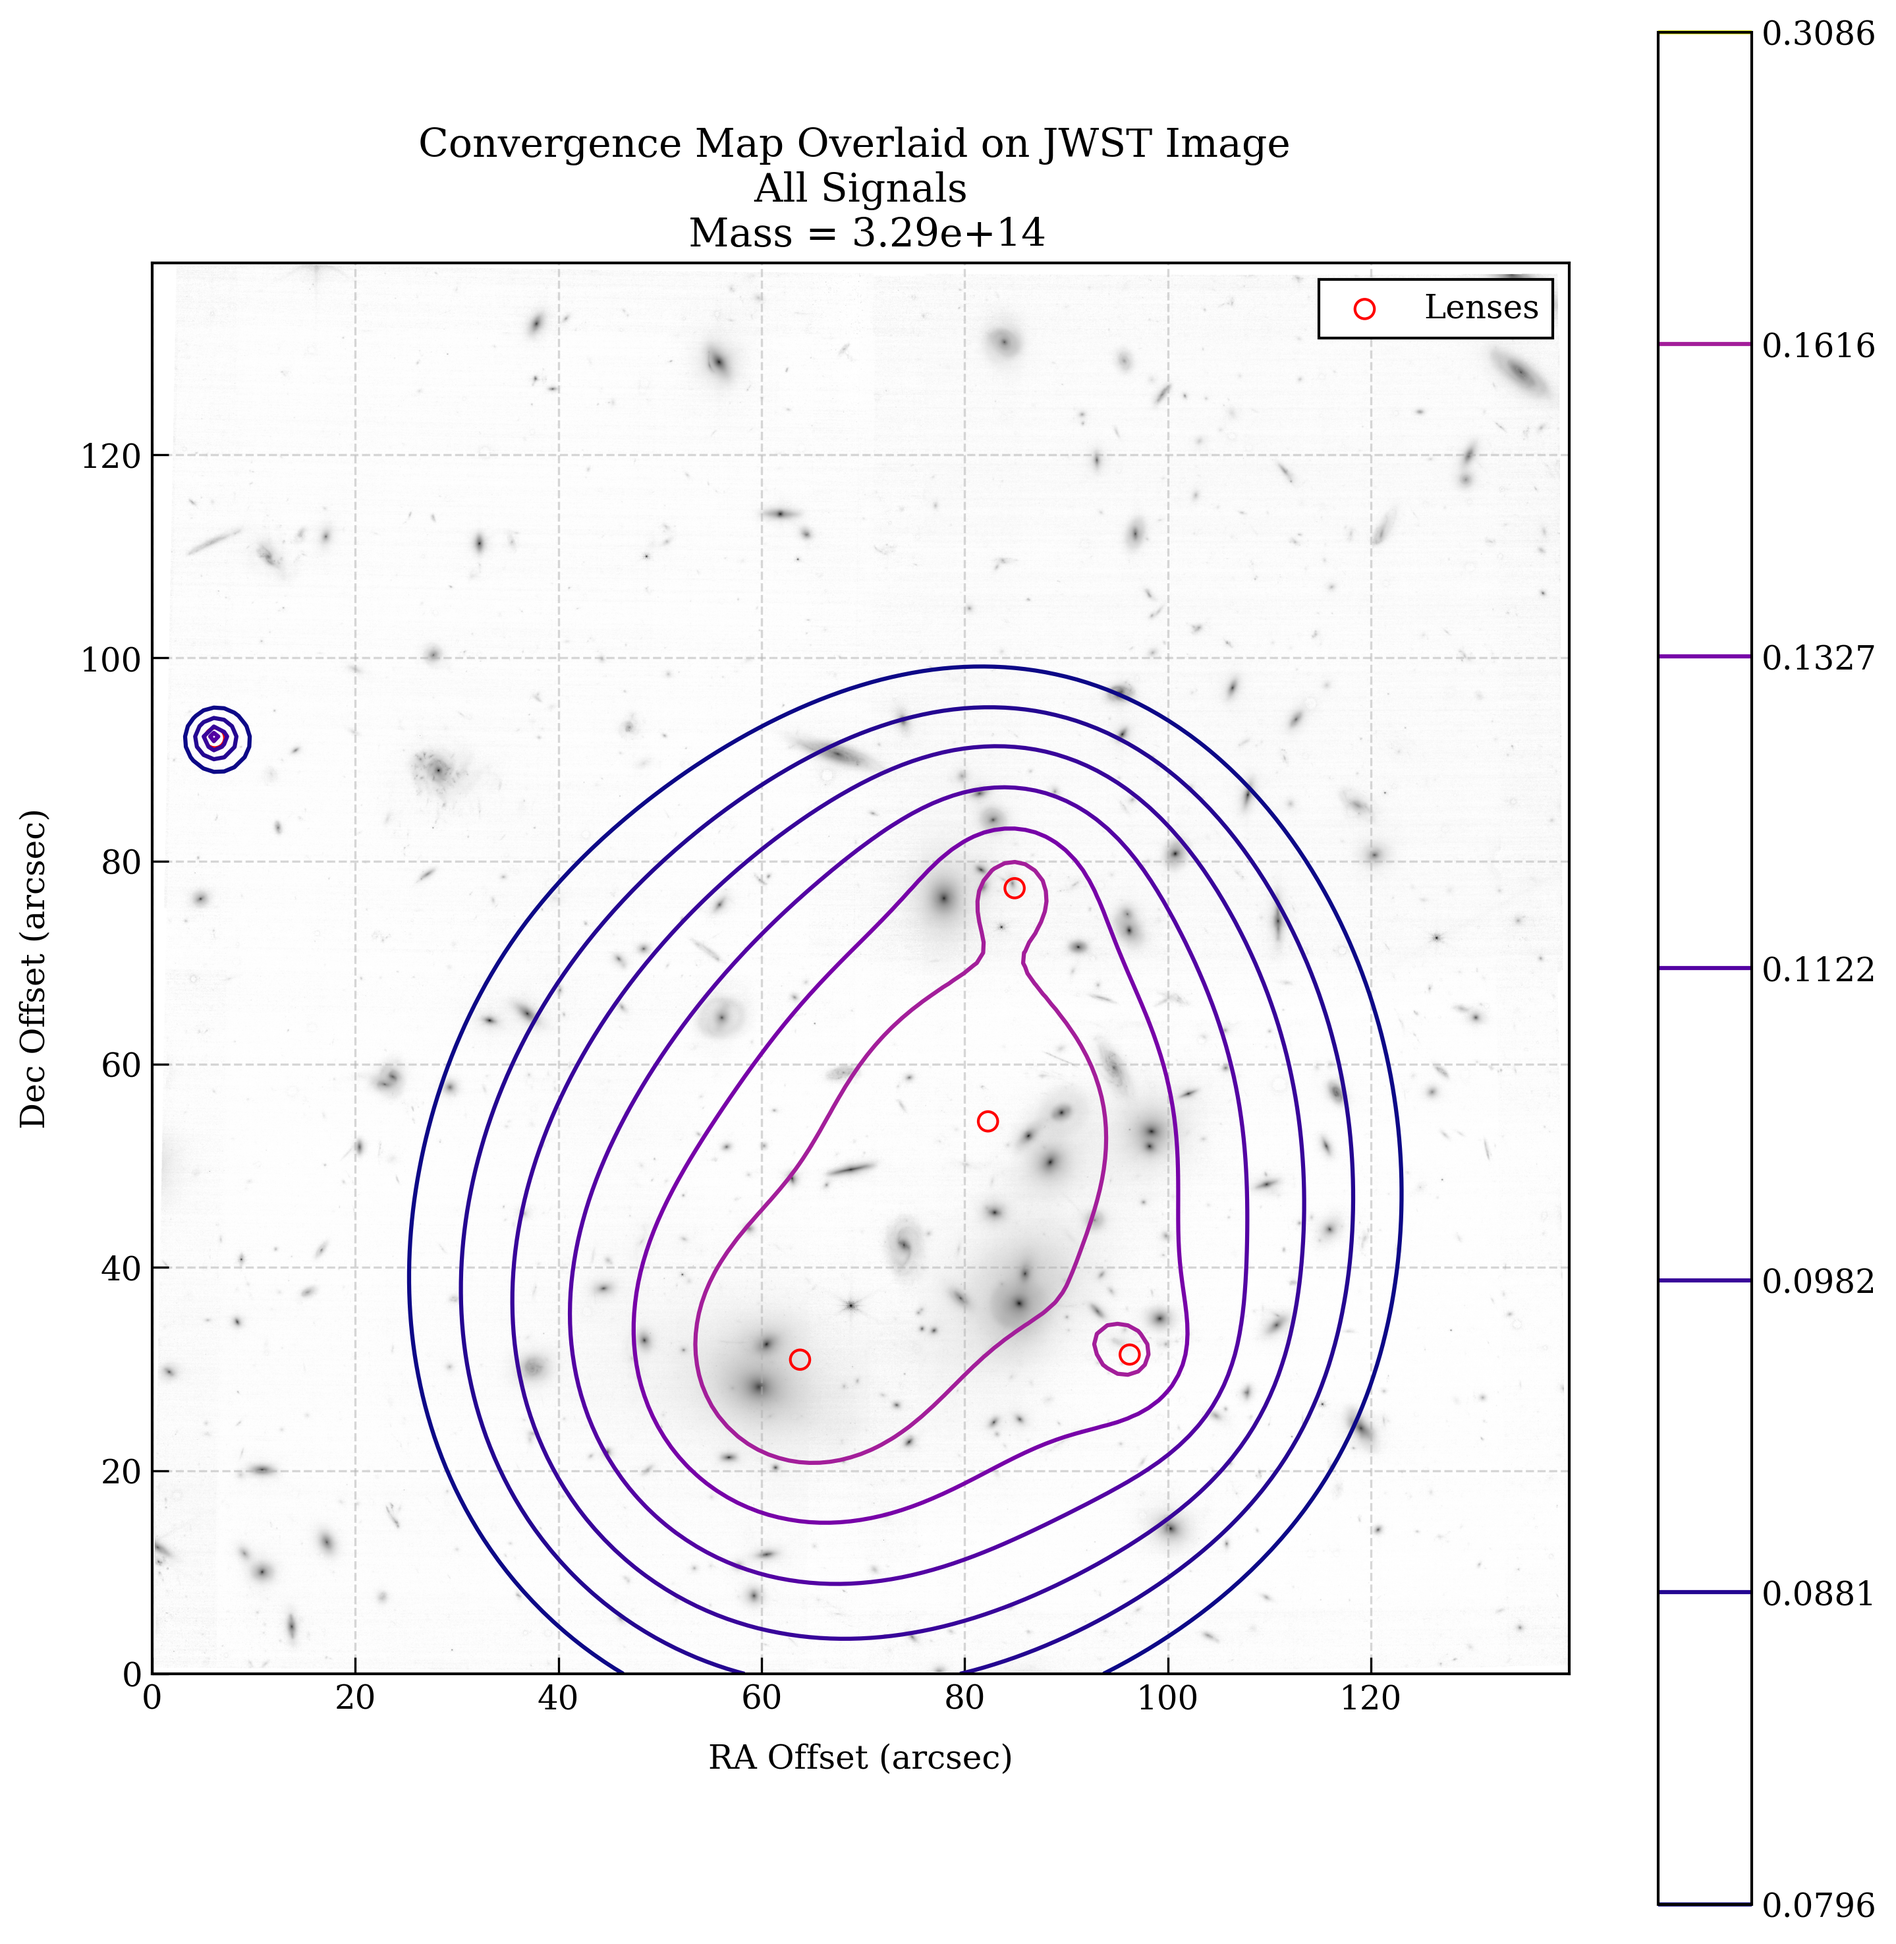
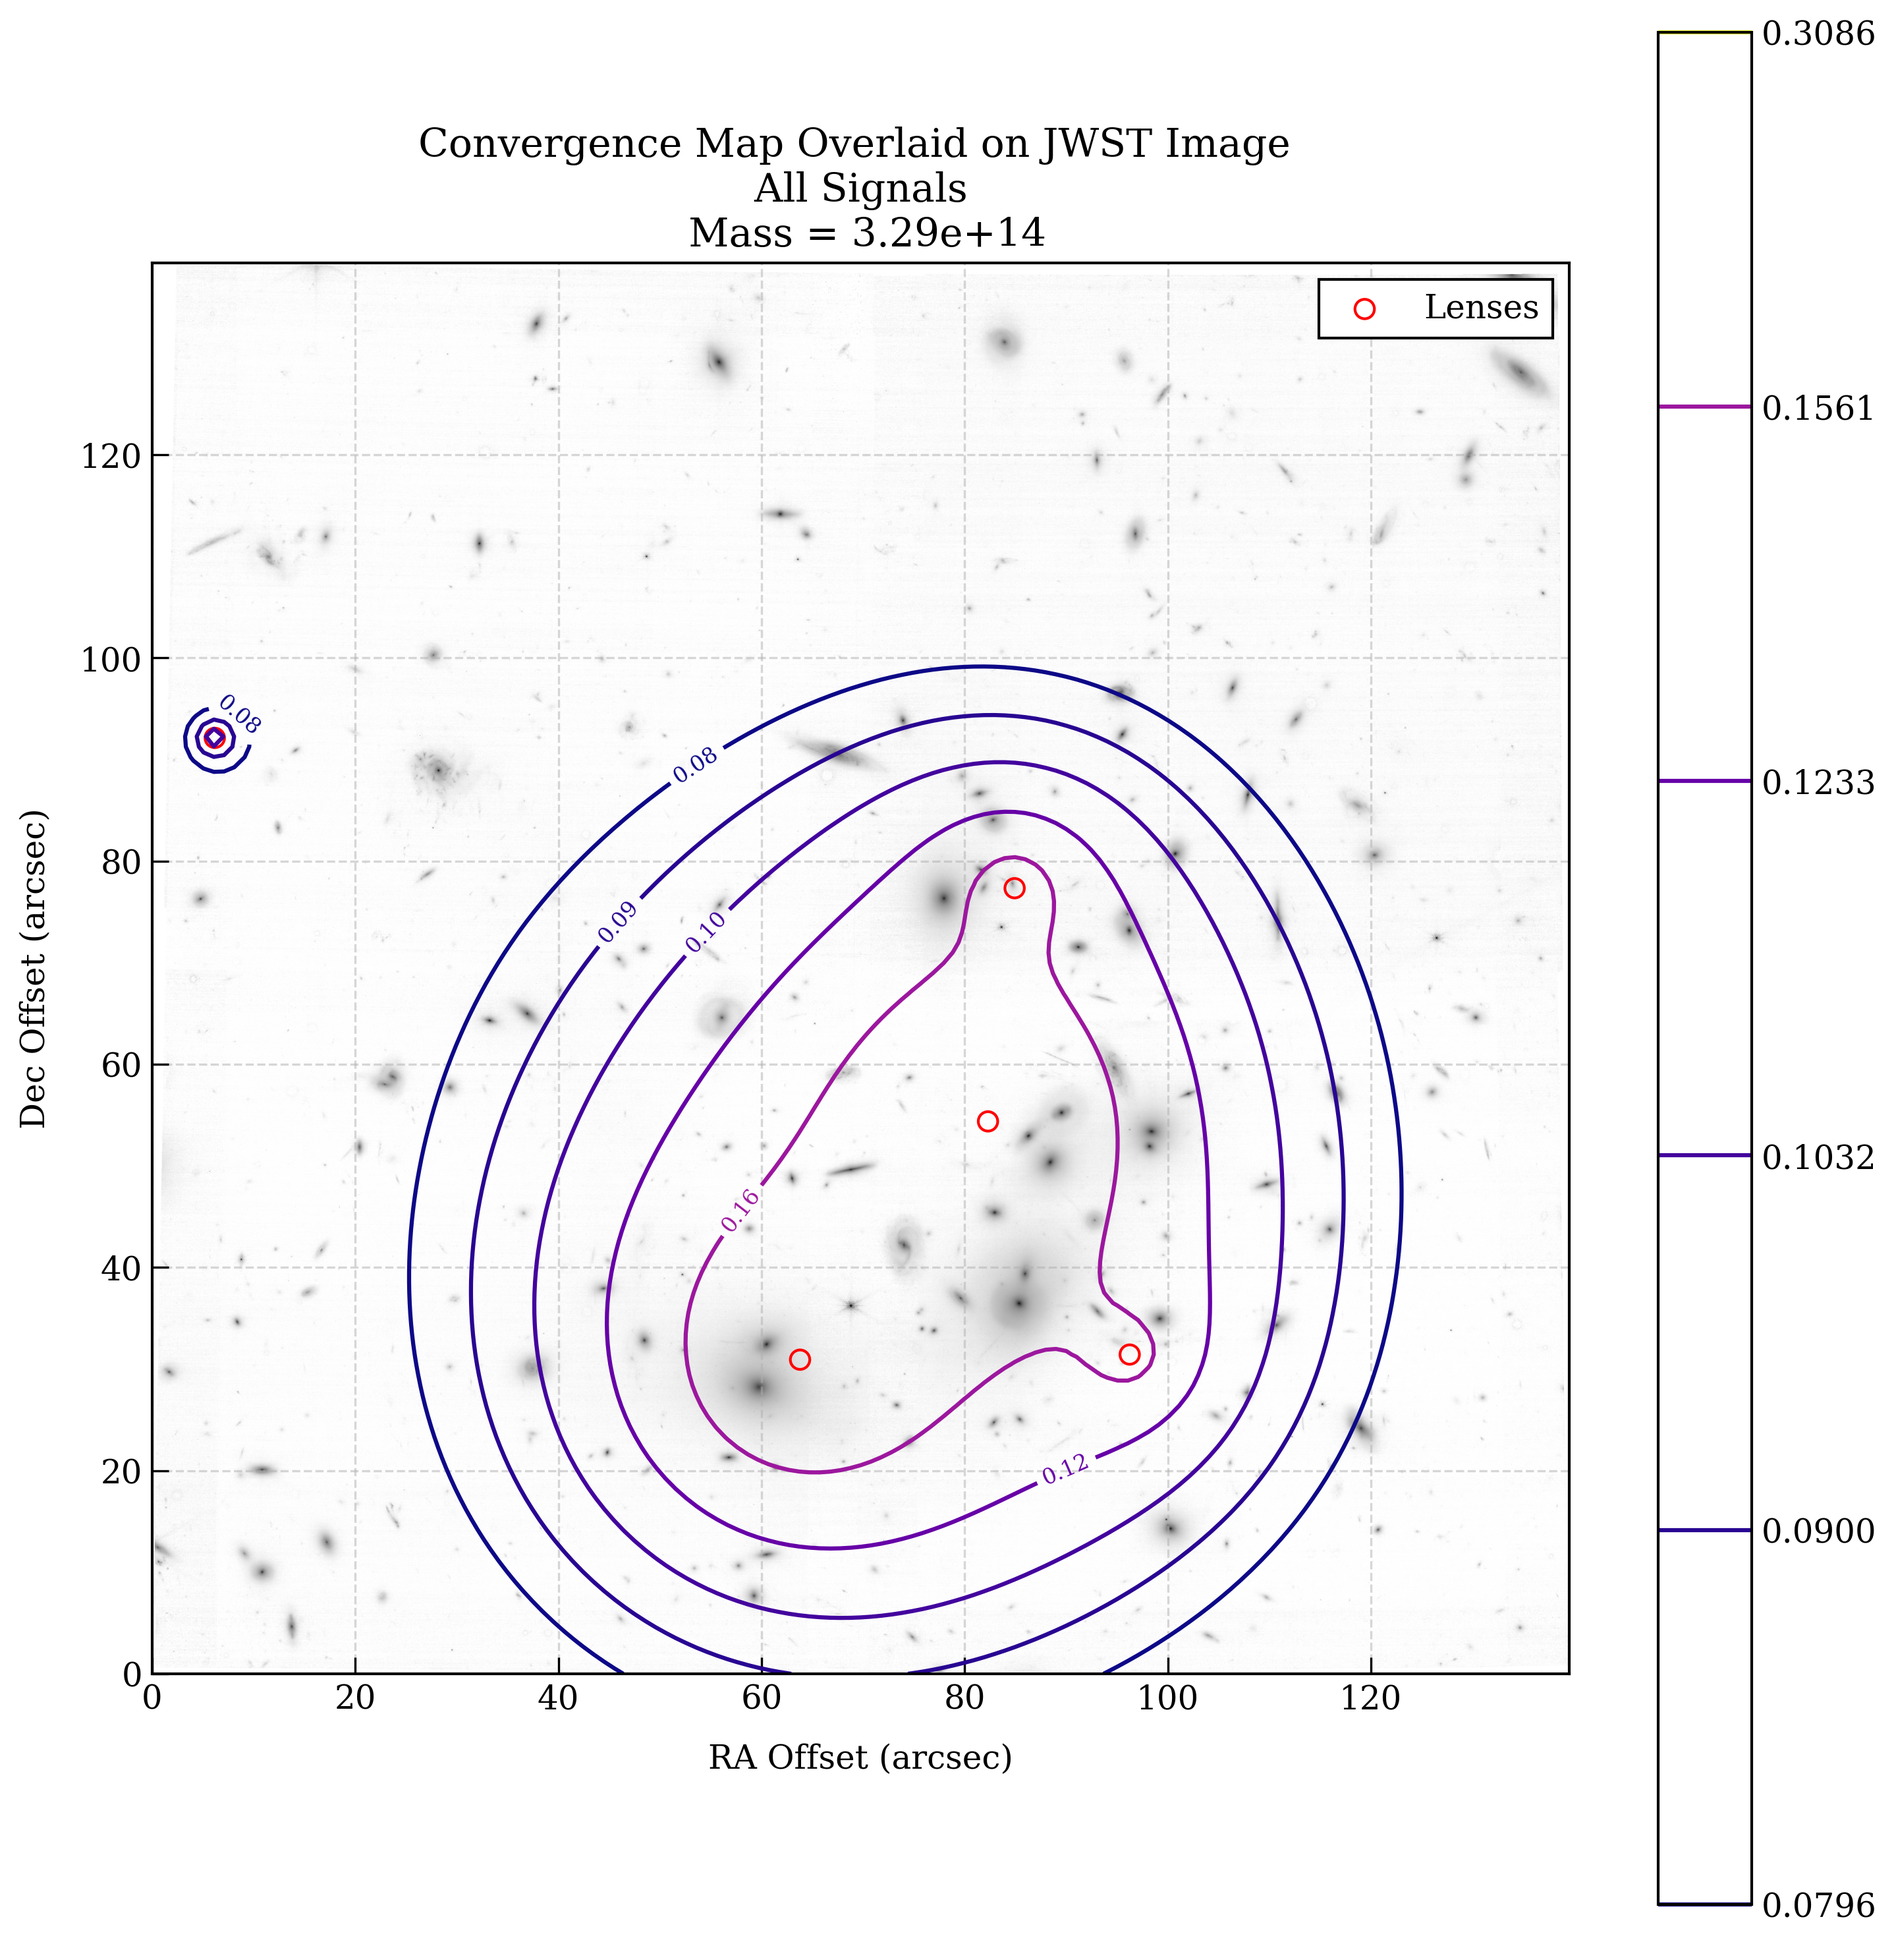
Refactor contour plotting in read_hst.py and read_jwst.py to enhance clarity; added labels to contours and adjusted contour levels for better representation.

diff --git a/read_hst.py b/read_hst.py
@@ -33,25 +33,10 @@ def plot_cluster(ax, img_data, X, Y, conv, lenses, sources, extent, vmax=1, lege
         # Adjusted contour levels for better feature representation.
         contour_levels = np.percentile(conv, np.linspace(60, 100, 5))
 
-        # Fine-tuned alpha value for better overlay visibility.
-        '''
-        color_map_overlay = ax.imshow(
-            conv, 
-            cmap='viridis', 
-            origin='lower', 
-            extent=extent, 
-            alpha=0.6, 
-            vmin=0, 
-            vmax=np.max(contour_levels)
-        )
-
-        # Customized color bar for clarity.
-        color_bar = plt.colorbar(color_map_overlay, ax=ax)
-        color_bar.set_label(r'$\kappa$', rotation=0, labelpad=10)
-        '''
         # Only overlay the contours of the convergence map - the color map will be too busy
         # Overlay the contours of the convergence map.
-        ax.contour(X, Y, conv, levels=contour_levels, cmap='plasma', linewidths=1.5)
+        contour = ax.contour(X, Y, conv, levels=contour_levels, cmap='plasma', linewidths=1.5)
+        ax.clabel(contour, inline=True, fontsize=8, fmt='%.2f')
 
     if lenses is not None:
         ax.scatter(lenses.x, lenses.y, color='red', label='Recovered Lenses')

diff --git a/read_jwst.py b/read_jwst.py
@@ -304,18 +304,14 @@ class JWSTPipeline:
 
         
         # Overlay convergence contours
-        contour_levels = np.percentile(kappa, np.linspace(60, 100, 5))
+        contour_levels = np.percentile(kappa, np.linspace(60, 100, 6))
         contours = ax.contour(
             X, Y, kappa, levels=contour_levels, cmap='plasma', linewidths=1.5
         )
         # Add colorbar for contours
+        ax.clabel(contours, inline=True, fontsize=8, fmt='%.2f')
         cbar = plt.colorbar(contours, ax=ax)
-        # And the convergence map itself
-        # cmap = ax.imshow(kappa, cmap='plasma', origin='lower', extent=img_extent, alpha=0.5)
 
-        # Add colorbar for convergence 
-        # cbar = plt.colorbar(cmap, ax=ax)
-        # cbar.set_label('Convergence')
 
         # Plot lens positions
         ax.scatter(self.lenses.x, self.lenses.y, s=50, facecolors='none', edgecolors='red', label='Lenses')
